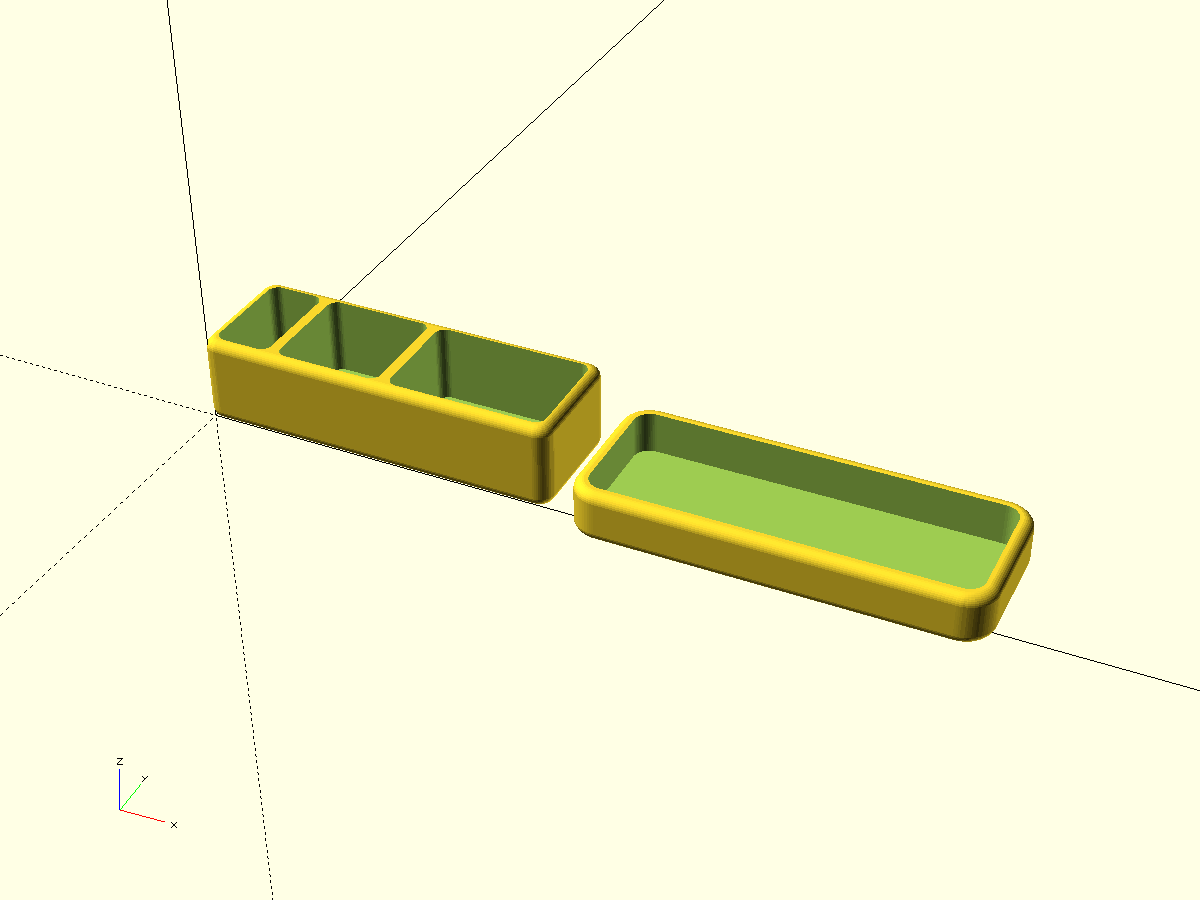
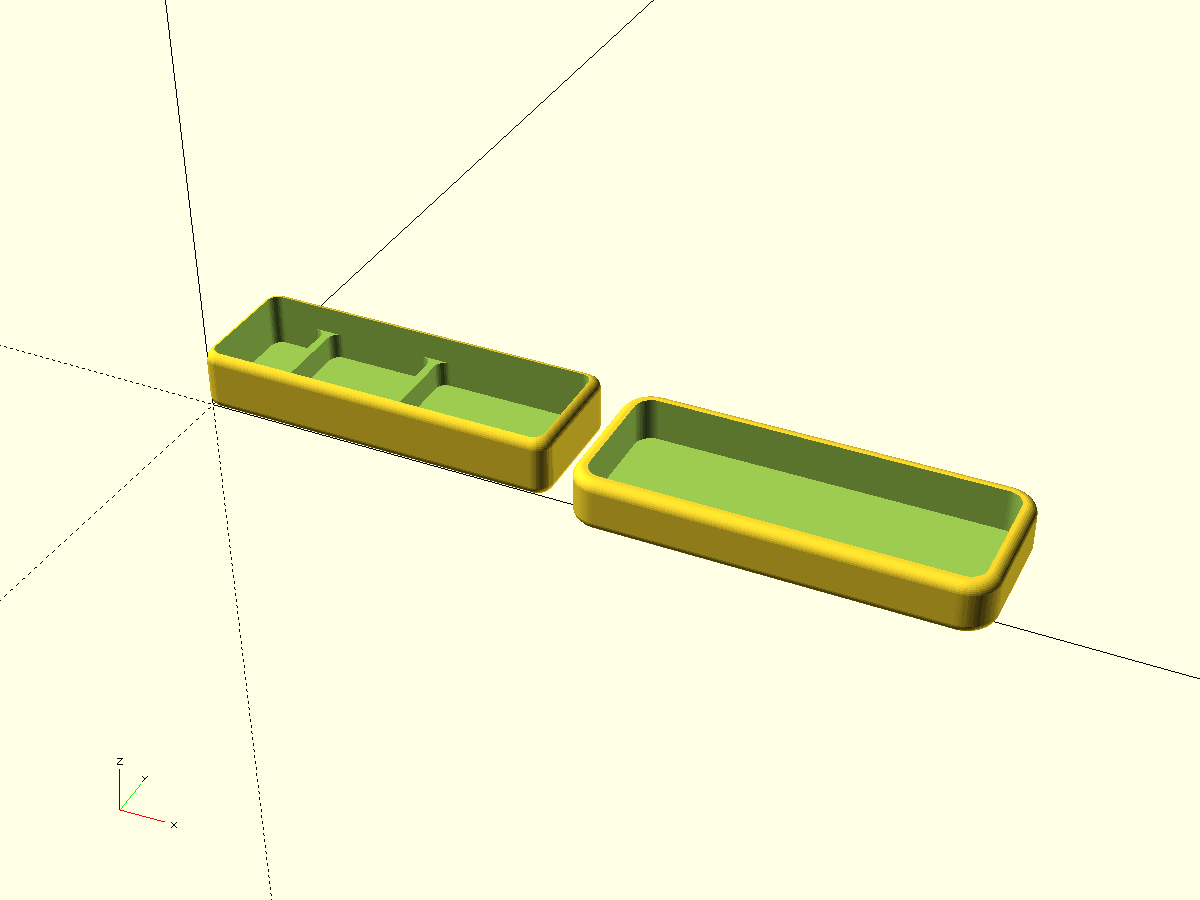
box: add sections_to_cap_gap

Changed region(s): [[0.1542, 0.3111, 0.8633, 0.7156]]

diff --git a/.windsurf/workflows/check-renders.md b/.windsurf/workflows/check-renders.md
@@ -1,0 +1,6 @@
+---
+description: Check png renders to find errors
+auto_execution_mode: 3
+---
+
+check preview.iso.png, preview.xy.png, renders of model. Open it again even if opened previous. After each scad change, pngs also changes. Find errors, fix scad
